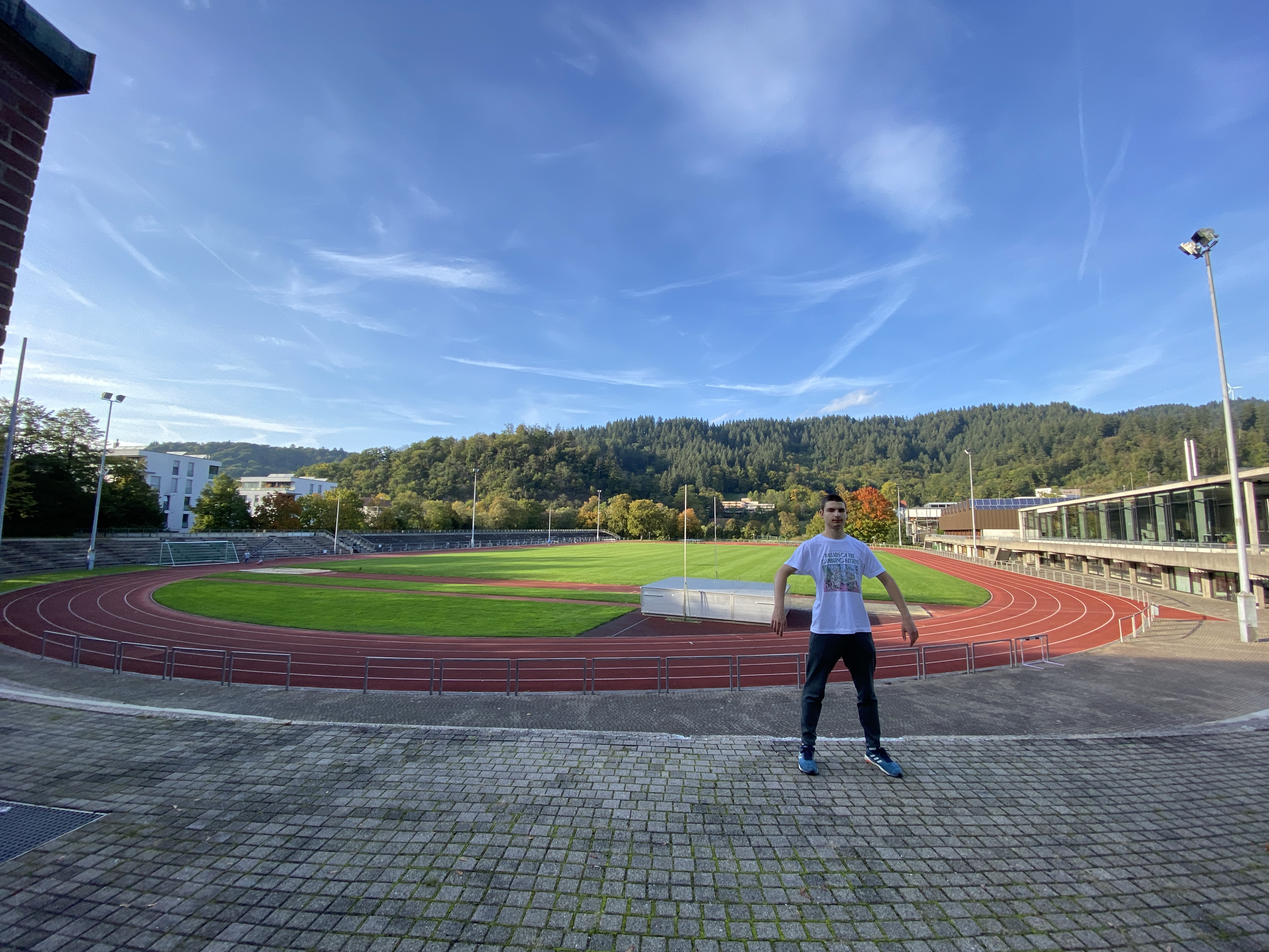
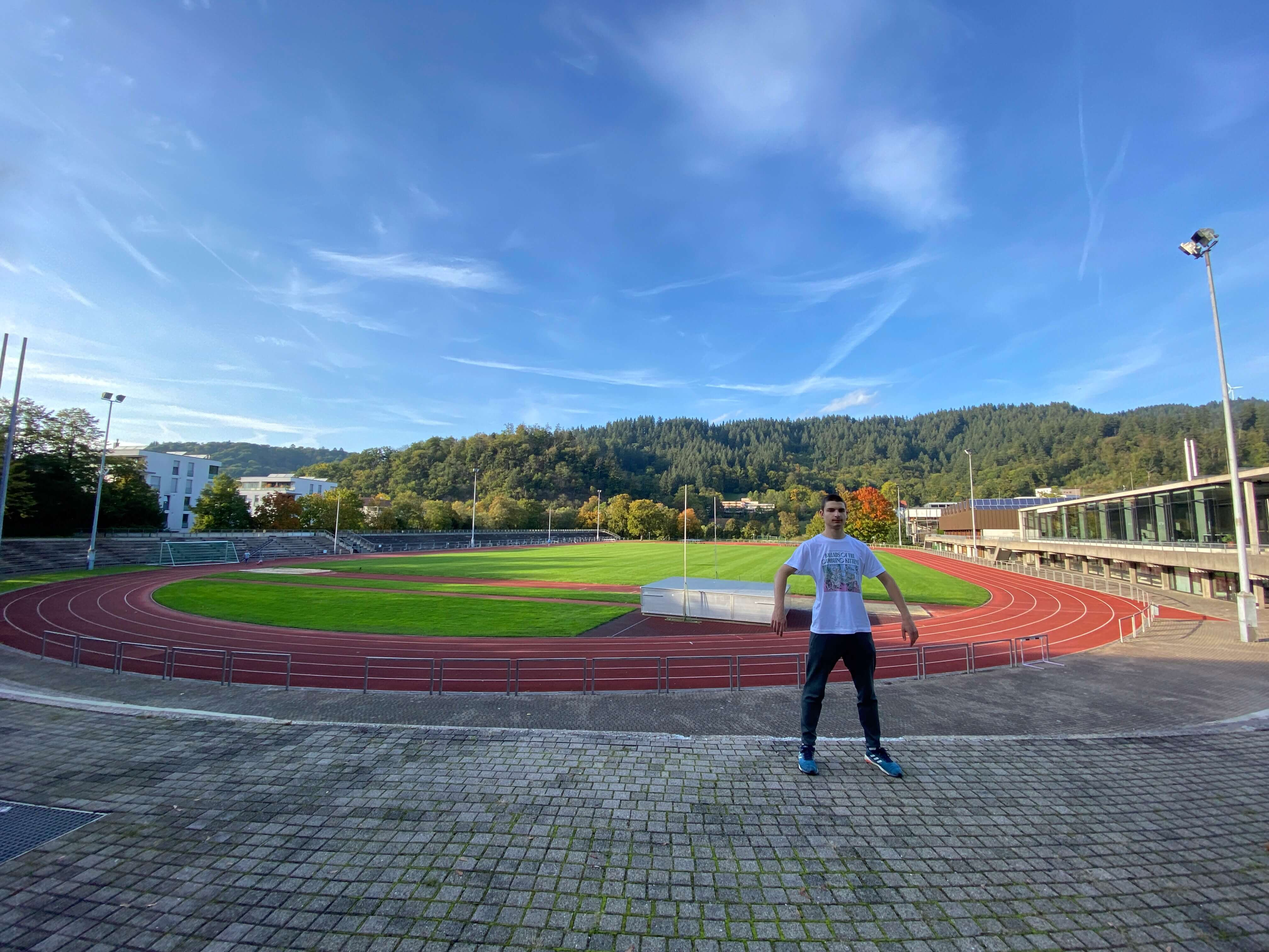
Now looks wat better!

Changed region(s): [[0.0, 0.0, 0.0938, 0.373], [0.1562, 0.6217, 0.2188, 0.6528], [0.2812, 0.6217, 0.3125, 0.6528]]

diff --git a/components/Projects.js b/components/Projects.js
@@ -1,21 +1,37 @@
 import { Tab } from "@headlessui/react";
 import { ProjectTemplate } from "./ProjectTemplate";
 import blog from "../public/images/blog.png";
-import personalWebsite from "../public/images/personalWebsite.png";
 import sudoku from "../public/images/sudoku.png";
 import TodoList from "../public/images/TodoList.png";
 
 export function Projects() {
+  function classNames(...classes) {
+    return classes.filter(Boolean).join(" ");
+  }
+
+  const tabsArray = ["Sudoku", "Todo List", "Blog"];
+
   return (
-    <div className="w-10/12 mx-auto">
+    <div className="w-9/12 mx-auto">
       <Tab.Group>
-        <Tab.List className="w-full flex justify-around h-10 bg-amber-200 rounded-xl border-2 border-neutral-100">
-          <Tab>Sudoku</Tab>
-          <Tab>Todo List</Tab>
-          <Tab>Blog</Tab>
-          <Tab>Personal Website</Tab>
+        <Tab.List className="w-full flex justify-around h-10 bg-green-900/50 rounded-xl border-2 border-neutral-100">
+          {tabsArray.map((val, i) => {
+            return (
+              <Tab
+                key={i}
+                className={({ selected }) =>
+                  classNames(
+                    "w-full rounded-lg py-2.5 text-sm font-medium leading-5 text-white ring-white ring-opacity-60 ring-offset-2 ring-offset-yellow-400 focus:outline-none focus:ring-2",
+                    selected
+                      ? "bg-emerald-900 text- shadow"
+                      : "text-blue-100 hover:bg-white/[0.12] hover:text-white"
+                  )
+                }
+              >{val}</Tab>
+            );
+          })}
         </Tab.List>
-        <Tab.Panels className="text-white mt-4 w-full bg-slate-700 p-8 rounded-md">
+        <Tab.Panels className="text-white mt-4 w-full bg-green-900/70 p-8 rounded-md">
           <Tab.Panel>
             <ProjectTemplate
               name="Sudoku"
@@ -38,14 +54,6 @@ export function Projects() {
               imgSrc={blog}
               link="https://blog-two-xi-23.vercel.app"
               text="CRUD React app. I used in this project all I knew before. The blog, I created, is an app with all basic data operations. It’s very similar to To-dos List because of the tools I used but still a way bigger project. The same MongoDB, Axios, React-query stack here but with way more requests, single and list views for posts etc. Also used Headless UI with Tailwind CSS to add some behavior to the Components. All my projects are built on Next.js framework but earlier there was basically no difference between CRA and Next.js. Here I used “useRouter” hook, some query HTTP requests and Next.js Dynamic Routing."
-            ></ProjectTemplate>
-          </Tab.Panel>
-          <Tab.Panel>
-            <ProjectTemplate
-              name="Personal Website"
-              imgSrc={personalWebsite}
-              link="https://myweb-gray.vercel.app"
-              text="As my last project I created my personal website, where you can find all my previous projects. In terms of tools and complexity obviously it is the easiest one because it’s basically static website without databases, APIs etc. When I started, I wanted to use Chakra UI as a React components library but using Chakra you need to basically learn Chakra completely with-it own hooks styling etc. So, I just sticked to the Tailwind and added behavior via Headless UI. "
             ></ProjectTemplate>
           </Tab.Panel>
         </Tab.Panels>

diff --git a/components/Footer.js b/components/Footer.js
@@ -1,21 +1,26 @@
 import Link from "next/link";
 import { TbBrandGithub } from "react-icons/tb";
 import { FaTelegramPlane } from "react-icons/fa";
-import { FiTwitter } from "react-icons/fi"
+import { FiTwitter } from "react-icons/fi";
 
 export function Footer() {
-  const iconSize = 20;
+  const iconSize = 27;
   return (
-    <div className="w-9/12 mx-auto bg-orange-300 flex justify-between">
-      <p>Thanks for visiting!</p>
+    <div className="w-9/12 mx-auto flex justify-between mt-6 h-24 items-center px-8 rounded-xl rounded-b-none bg-green-900/70 text-white">
+      <div className="flex flex-col text-lg font-bold">
+        <p>Thanks for visiting!</p>
+        <p>Made by @fi9ish</p>
+      </div>
       <div className="flex gap-2">
-        <Link href="https://github.com/fi9ish/">
-          <TbBrandGithub>size={iconSize}</TbBrandGithub>
+        <Link href="https://github.com/fi9ish/" className="hover:text-yellow-400">
+          <TbBrandGithub size={iconSize}></TbBrandGithub>
         </Link>
-        <Link href="https://t.me/fi9ish">
+        <Link href="https://t.me/fi9ish" className="hover:text-yellow-400">
           <FaTelegramPlane size={iconSize}></FaTelegramPlane>
         </Link>
-        <Link href="https://twitter.com/FinishMee"><FiTwitter></FiTwitter></Link>
+        <Link href="https://twitter.com/FinishMee" className="ml-1 hover:text-yellow-400">
+          <FiTwitter size={iconSize}></FiTwitter>
+        </Link>
       </div>
     </div>
   );

diff --git a/pages/index.js b/pages/index.js
@@ -1,3 +1,4 @@
+import Image from "next/image";
 import { Arrow } from "../components/Arrow";
 import { BgImage } from "../components/BgImage";
 import { Bio } from "../components/Bio";
@@ -7,24 +8,24 @@ import { Navbar } from "../components/Navbar";
 import { PassionedAbout } from "../components/PassionedAbout";
 import { Projects } from "../components/Projects";
 import { WelcomeText } from "../components/WelcomeText";
+import photoSource from "../public/images/Stadion.jpg";
 
 export default function Home() {
   return (
-    <BgImage>
-      {/* <Navbar></Navbar> */}
-      {/* <Arrow></Arrow> */}
-      <div className="flex flex-col w-9/12 mx-auto gap-6 pr-16">
-        <WelcomeText></WelcomeText>
-        <PassionedAbout></PassionedAbout>
-        <MySkills></MySkills>
+    <div className="flex flex-col gap-2">
+      <div className="">
+        <BgImage></BgImage>
+        <div className="relative flex flex-col mx-auto gap-6 pr-16 z-10 w-9/12 pt-20">
+          <WelcomeText></WelcomeText>
+          <PassionedAbout></PassionedAbout>
+          <MySkills></MySkills>
+        </div>
       </div>
       <div className="w-full z-10 mt-36">
         <Projects></Projects>
       </div>
-      <div className="w-9/12 mx-auto bg-lime-800 mt-10">
-        <Bio></Bio>
-      </div>
+      <Bio></Bio>
       <Footer></Footer>
-    </BgImage>
+    </div>
   );
 }

diff --git a/components/Bio.js b/components/Bio.js
@@ -1,24 +1,24 @@
 export function Bio() {
   return (
-    <div className="text-white p-4 divide-y-2">
+    <div className="text-white py-4 divide-y-2 w-9/12 mx-auto bg-green-900/70 mt-16 rounded-xl px-8">
       <p className="text-xl font-bold">Bio</p>
       <div>
         <div className="flex gap-4 mt-2">
           <p className="font-bold">09/2003</p>
-          <p>Was bord in Kyiv, Ukraine 2003</p>{" "}
+          <p>Was born in Kyiv, Ukraine</p>
         </div>
         <div className="flex gap-4">
           <p className="font-bold">09/2020-01/2022</p>
           <p>
-            Went to the “Igor Sikorsky Kyiv Polytechnic Institute” and learned
-            Computer Engineering there for 1.5 years.
+            Studied
+            Computer Engineering in “Igor Sikorsky Kyiv Polytechnic Institute” for 1.5 years.
           </p>
         </div>
         <div className="flex gap-4">
           <p className="font-bold">03/2022-present</p>
           <p>
-            Now learning Business Informatic in the Technical University of
-            Brunswick
+            Now learning Business Informatics in the Technical University of
+            Brunswick.
           </p>
         </div>
       </div>

diff --git a/components/ProjectTemplate.js b/components/ProjectTemplate.js
@@ -6,20 +6,21 @@ export function ProjectTemplate({ name, imgSrc, link, text }) {
   return (
     <div className="divide-y-2">
       <Link href={link} className="flex gap-2 items-center mb-2">
-        <p className="font-bold text-xl">{name}</p><button className="bg-blue-500 rounded-lg p-2"><TbBrandGithub size={20}></TbBrandGithub></button>
+        <p className="font-bold text-xl">{name}</p><button className="bg-emerald-900 text rounded-lg p-2 hover:text-yellow-400"><TbBrandGithub size={20}></TbBrandGithub></button>
       </Link>
       <div className=" pt-4 flex flex-col gap-4">
         <Link href={link} className="self-center">
           <Image
             src={imgSrc}
             alt="alt"
-            className="rounded-xl border-2 border-orange-500"
-            height={300}
+            className="rounded-xl border-2 border-yellow-400"
+            height={400}
+            placeholder="blur"
           ></Image>
         </Link>
         <div>
             <p className="font-bold text-xl">Description</p>
-            <p>{text}</p>
+            <p className="indent-4">{text}</p>
         </div>
       </div>
     </div>

diff --git a/components/BgImage.js b/components/BgImage.js
@@ -1,7 +1,17 @@
-export function BgImage({children}) {
-    return(
-        <div className="bg-myPhoto bg-cover bg-fixed pt-16">
-            {children}
-        </div>
-    )
+import Image from "next/image";
+import bgImage from "../public/images/Stadion.jpg";
+import React from "react";
+
+export function BgImage() {
+  return (
+    <div>
+      <Image
+        alt="bgImage"
+        src={bgImage}
+        placeholder="blur"
+        className="fixed -z-10"
+        priority={true}
+      ></Image>
+    </div>
+  );
 }

diff --git a/components/PassionedAbout.js b/components/PassionedAbout.js
@@ -1,8 +1,8 @@
 export function PassionedAbout() {
   return (
-    <div className="text-4xl z-10 font-serif flex flex-col bg-cyan-600 bg-opacity-50 p-3 rounded-md text-white">
+    <div className="text-4xl z-10 font-serif flex flex-col bg-green-700 bg-opacity-60 p-3 rounded-md text-white w-10/12">
       <p>
-        I am passioned about developing web apps, learning new stuff and
+        I am passionate about developing web apps, learning new stuff and
         implementing it.
       </p>
     </div>

diff --git a/components/Skill.js b/components/Skill.js
@@ -1,7 +1,10 @@
-export function Skill({children}) {
-    return(
-        <div className="bg-white p-2 rounded-full flex items-center gap-1 m-1">
-            {children}
-        </div>
-    )
+import React from "react";
+import { FaRegBell } from "react-icons/fa";
+
+export function Skill({ children }) {
+  return (
+    <div className="bg-white p-2 rounded-full flex items-center gap-1 m-1 hover:bg-yellow-400 hover:ring-2 hover:ring-orange-500">
+      {children}
+    </div>
+  );
 }

diff --git a/components/MySkills.js b/components/MySkills.js
@@ -16,7 +16,7 @@ export function MySkills() {
   const iconSize = 25;
 
   return (
-    <div className="flex bg-sky-700 w-7/12 p-4 rounded-xl divide-y-2 flex-col text-white">
+    <div className="flex bg-green-900 w-auto p-4 rounded-xl divide-y-2 flex-col text-white mb-60 bg-opacity-60 max-w-2xl">
       <p className="p-2 font-bold text-xl">My skills</p>
       <div className="flex py-2 text-black flex-wrap">
         <Skill>

diff --git a/components/WelcomeText.js b/components/WelcomeText.js
@@ -2,7 +2,7 @@ export function WelcomeText() {
   return (
     <div className="text-yellow-400 text-8xl z-10 font-serif flex flex-col">
       <p>
-        Hi, my name is Tim and I am looking <span className="underline">for internship.</span>
+        Hi, my name is Tim and I am looking for an <span className="underline">internship.</span>
       </p>
     </div>
   );
